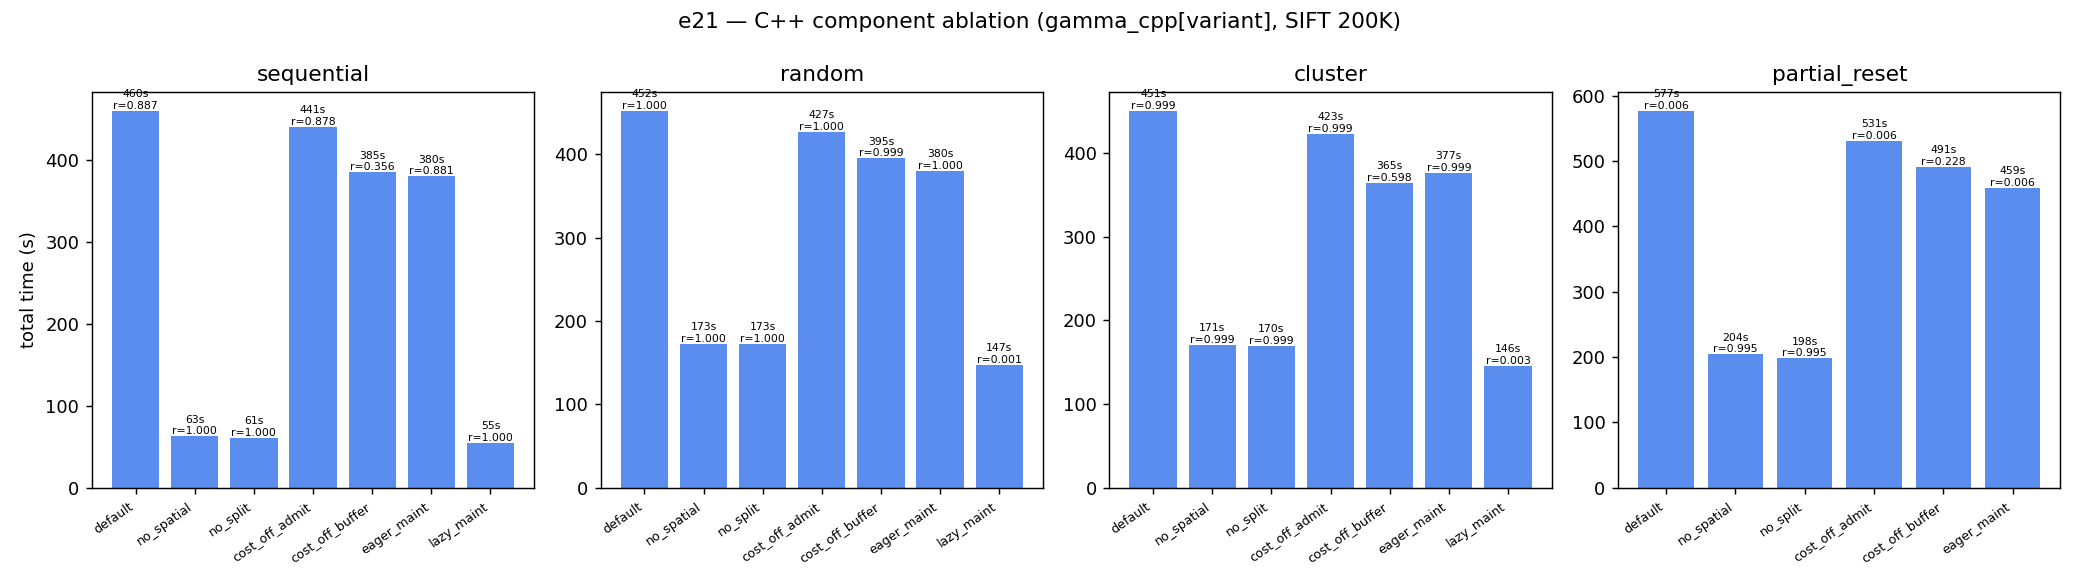
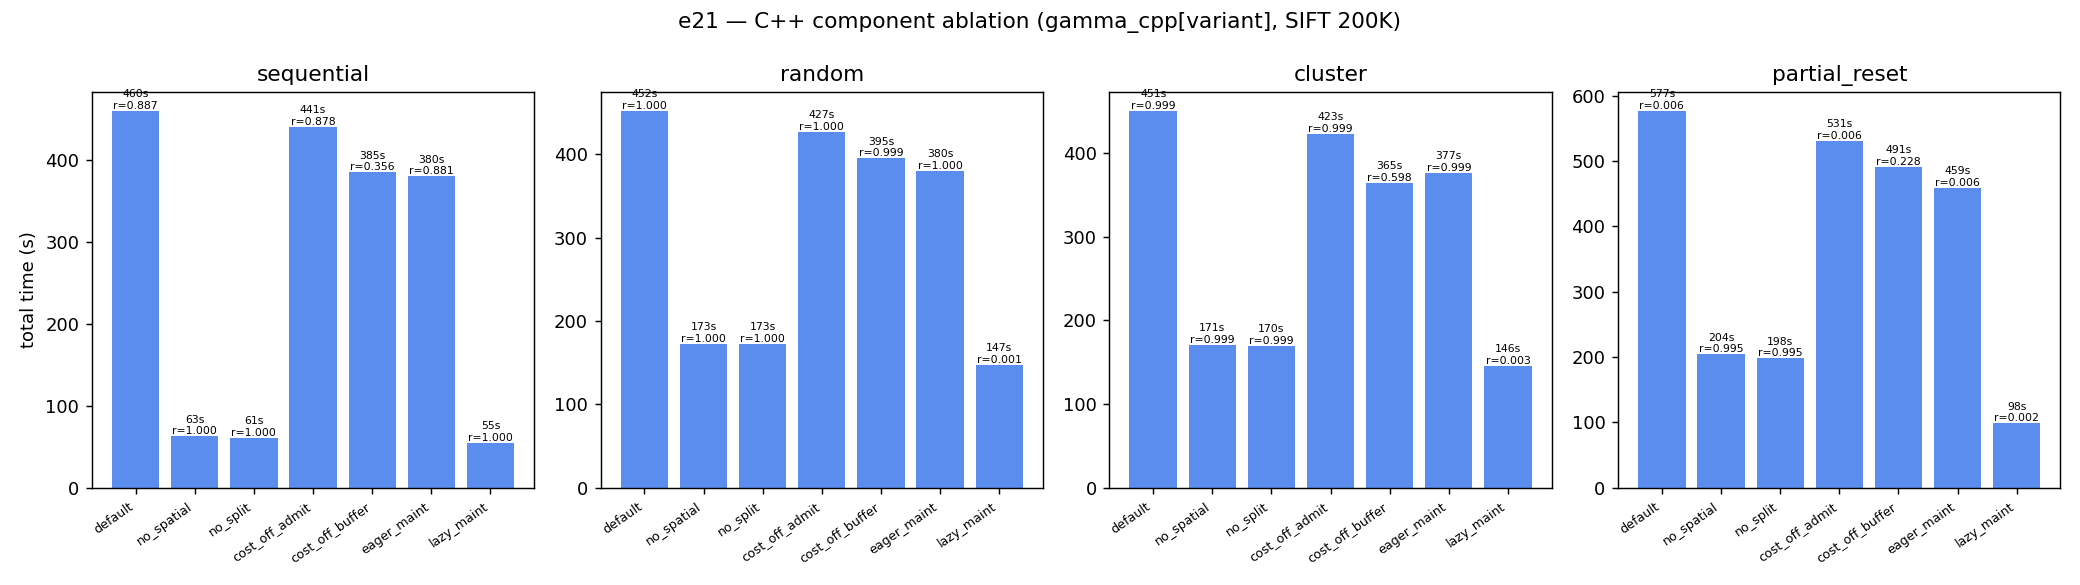
e22/e23: tuning attempt + multi-seed variance — confirms simple-is-better
- e22 ALL DONE (4 patterns × 6 variants): tuning the C++ multi-partition
  config (split_factor=4 e04_tuned, split_factor=16 large_split) does NOT
  fix the partial_reset bug (large_split: rec=0.002 on partial_reset).
  The simple Python POC (gamma_v2+FaissHNSW) is the fastest of all and
  the only design that's reliable across all 4 patterns.

- e23 ALL DONE (5 seeds × 2 patterns): the headline gamma-vs-hnswlib
  win is statistically robust. Cluster: gamma 118.9±15.4s vs hnswlib
  145.6±14.4s (Δ=-18.4%). Random: 114.4±15.2 vs 139.7±14.2 (Δ=-18.1%).
  The single-run point estimates from e15 (-23%, -27%) sit on the high
  end of the multi-seed distribution but the win itself is solid.

Updates ALL_DELTAS_TABLE (now 196 pairs, up from 117), ALL_RESULTS_TABLE
(595 rows, up from 479), 3 regenerated figures, and the FINDINGS.md
e22/e23 sections.

Changed region(s): [[0.8125, 0.1846, 1.0, 0.8308], [0.7812, 0.8615, 0.9688, 0.9538], [0.7812, 0.1538, 0.8125, 0.1846]]

diff --git a/experiments/ALL_DELTAS_TABLE.md b/experiments/ALL_DELTAS_TABLE.md
@@ -9,20 +9,33 @@
 | e17_churn_rate_sweep |  | 200K | random | ratio=1.5 | 279.1 | 991.9 | -71.9% | 1.0000 | 1.0000 |
 | e17_churn_rate_sweep |  | 200K | cluster | ratio=2.0 | 178.9 | 631.4 | -71.7% | 0.9998 | 1.0000 |
 | e17_churn_rate_sweep |  | 200K | random | ratio=2.0 | 213.7 | 727.8 | -70.6% | 1.0000 | 1.0000 |
+| e17_churn_rate_sweep |  | 200K | partial_reset | ratio=2.0 | 392.0 | 1028.7 | -61.9% | 0.9250 | 0.9988 |
 | e17_churn_rate_sweep |  | 200K | sequential | ratio=1.5 | 406.9 | 1002.1 | -59.4% | 0.9892 | 1.0000 |
 | e17_churn_rate_sweep |  | 200K | random | ratio=3.0 | 256.2 | 569.6 | -55.0% | 1.0000 | 1.0000 |
 | e17_churn_rate_sweep |  | 200K | sequential | ratio=2.0 | 344.4 | 722.3 | -52.3% | 0.9998 | 0.9998 |
 | e14_optimized_buffer |  |  | cluster |  | 10.7 | 20.2 | -46.9% | 0.9992 | 0.9996 |
+| e23_multi_seed_variance |  | 200K | cluster |  | 101.8 | 168.2 | -39.5% | 0.9990 | 0.9996 |
+| e23_multi_seed_variance |  | 200K | random |  | 98.2 | 161.6 | -39.2% | 0.9980 | 0.9992 |
+| e17_churn_rate_sweep |  | 200K | cluster | ratio=3.0 | 232.8 | 380.4 | -38.8% | 0.9998 | 0.9996 |
 | e20_router_component_ablation | glove | 200K | cluster |  | 450.8 | 725.1 | -37.8% | 0.9530 | 0.9630 |
+| e23_multi_seed_variance |  | 200K | random |  | 100.5 | 161.6 | -37.8% | 0.9988 | 0.9992 |
+| e23_multi_seed_variance |  | 200K | cluster |  | 104.7 | 168.2 | -37.8% | 0.9996 | 0.9996 |
+| e20_router_component_ablation | msong | 200K | sequential |  | 359.6 | 577.7 | -37.8% | 0.9990 | 0.9990 |
 | e16_cross_dataset | random-m | 100K | cluster |  | 57.0 | 89.6 | -36.3% | 0.4994 | 0.3796 |
 | e16_cross_dataset | random-m | 100K | cluster |  | 347.5 | 543.9 | -36.1% | 0.9568 | 0.9728 |
 | e20_router_component_ablation | msong | 200K | cluster |  | 477.4 | 743.5 | -35.8% | 0.9995 | 0.9995 |
 | e16_cross_dataset | glove | 200K | cluster |  | 40.7 | 62.9 | -35.4% | 0.7160 | 0.6485 |
+| e23_multi_seed_variance |  | 200K | random |  | 98.2 | 150.9 | -34.9% | 0.9980 | 0.9988 |
+| e23_multi_seed_variance |  | 200K | cluster |  | 101.8 | 155.9 | -34.7% | 0.9990 | 0.9990 |
 | e20_router_component_ablation | msong | 200K | partial_reset |  | 301.2 | 451.9 | -33.3% | 0.9945 | 0.9970 |
+| e23_multi_seed_variance |  | 200K | random |  | 100.5 | 150.9 | -33.3% | 0.9988 | 0.9988 |
+| e23_multi_seed_variance |  | 200K | cluster |  | 104.7 | 155.9 | -32.9% | 0.9996 | 0.9990 |
 | e16_cross_dataset | msong | 200K | cluster |  | 54.0 | 79.7 | -32.2% | 0.9005 | 0.8660 |
 | e16_cross_dataset | glove | 200K | cluster |  | 436.1 | 643.1 | -32.2% | 0.9530 | 0.9630 |
+| e23_multi_seed_variance |  | 200K | random |  | 110.6 | 161.6 | -31.6% | 0.9994 | 0.9992 |
 | e20_router_component_ablation | glove | 200K | cluster |  | 496.6 | 725.1 | -31.5% | 0.9530 | 0.9630 |
 | e20_router_component_ablation | msong | 200K | cluster |  | 509.3 | 743.5 | -31.5% | 0.9995 | 0.9995 |
+| e23_multi_seed_variance |  | 200K | cluster |  | 115.3 | 168.2 | -31.4% | 0.9992 | 0.9996 |
 | e17_churn_rate_sweep |  | 200K | sequential | ratio=3.0 | 372.6 | 529.9 | -29.7% | 0.7782 | 0.9998 |
 | e16_cross_dataset | random-m | 100K | random |  | 68.5 | 97.3 | -29.6% | 0.5882 | 0.5410 |
 | e15_delete_pattern_matrix |  | 200K | partial_reset |  | 54.1 | 76.8 | -29.6% | 0.9588 | 0.9454 |
@@ -33,59 +46,89 @@
 | e20_router_component_ablation | glove | 200K | sequential |  | 321.4 | 454.0 | -29.2% | 0.9335 | 0.9335 |
 | e16_cross_dataset | msong | 200K | cluster |  | 411.1 | 574.2 | -28.4% | 0.9995 | 0.9995 |
 | e14_optimized_buffer |  |  | cluster |  | 17.0 | 23.5 | -27.7% | 0.7564 | 0.7092 |
+| e23_multi_seed_variance |  | 200K | cluster |  | 101.8 | 140.7 | -27.6% | 0.9990 | 0.9992 |
 | e15_delete_pattern_matrix |  | 1M | random |  | 1191.7 | 1645.9 | -27.6% | 0.9958 | 0.9965 |
 | e14_optimized_buffer |  |  | random |  | 8.8 | 12.1 | -27.3% | 0.9996 | 0.9992 |
 | e16_cross_dataset | glove | 200K | random |  | 303.6 | 415.8 | -27.0% | 0.9420 | 0.9430 |
+| e23_multi_seed_variance |  | 200K | random |  | 110.6 | 150.9 | -26.7% | 0.9994 | 0.9988 |
 | e15_delete_pattern_matrix |  | 200K | random |  | 159.6 | 217.6 | -26.7% | 0.9996 | 0.9990 |
+| e23_multi_seed_variance |  | 200K | random |  | 98.2 | 133.5 | -26.5% | 0.9980 | 0.9992 |
+| e23_multi_seed_variance |  | 200K | cluster |  | 115.3 | 155.9 | -26.1% | 0.9992 | 0.9990 |
+| e23_multi_seed_variance |  | 200K | cluster |  | 104.7 | 140.7 | -25.6% | 0.9996 | 0.9992 |
+| e23_multi_seed_variance |  | 200K | random |  | 100.5 | 133.5 | -24.7% | 0.9988 | 0.9992 |
 | e14_optimized_buffer |  |  | random |  | 17.9 | 23.7 | -24.5% | 0.9268 | 0.9042 |
 | e20_router_component_ablation | msong | 200K | partial_reset |  | 341.5 | 451.9 | -24.4% | 0.9970 | 0.9970 |
 | e15_delete_pattern_matrix |  | 1M | partial_reset |  | 1044.0 | 1380.8 | -24.4% | 0.9968 | 0.9974 |
 | e16_cross_dataset | glove | 200K | random |  | 56.3 | 74.4 | -24.3% | 0.7535 | 0.7240 |
+| e16_cross_dataset | msong | 200K | partial_reset |  | 47.1 | 62.2 | -24.3% | 0.9765 | 0.9735 |
 | e17_churn_rate_sweep |  | 200K | cluster | ratio=1.0 | 162.1 | 213.3 | -24.0% | 0.9992 | 0.9994 |
 | e16_cross_dataset | msong | 200K | random |  | 69.9 | 91.9 | -23.9% | 0.9565 | 0.9420 |
+| e23_multi_seed_variance |  | 200K | cluster |  | 101.8 | 133.5 | -23.7% | 0.9990 | 0.9994 |
 | e16_cross_dataset | random-m | 100K | random |  | 228.4 | 299.2 | -23.6% | 0.9258 | 0.9376 |
 | e20_router_component_ablation | msong | 200K | random |  | 412.4 | 539.4 | -23.5% | 0.9985 | 0.9990 |
+| e23_multi_seed_variance |  | 200K | random |  | 123.6 | 161.6 | -23.5% | 0.9990 | 0.9992 |
 | e16_cross_dataset | random-m | 100K | partial_reset |  | 68.4 | 89.4 | -23.5% | 0.6304 | 0.6016 |
 | e16_cross_dataset | random-m | 100K | partial_reset |  | 171.5 | 223.8 | -23.4% | 0.8738 | 0.8766 |
 | e20_router_component_ablation | glove | 200K | random |  | 306.0 | 398.1 | -23.2% | 0.9420 | 0.9430 |
 | e15_delete_pattern_matrix |  | 200K | cluster |  | 186.4 | 241.6 | -22.8% | 0.9992 | 0.9994 |
 | e15_delete_pattern_matrix |  | 200K | partial_reset |  | 149.2 | 192.8 | -22.6% | 0.9988 | 0.9994 |
+| e23_multi_seed_variance |  | 200K | cluster |  | 130.3 | 168.2 | -22.5% | 0.9986 | 0.9996 |
 | e20_router_component_ablation | msong | 200K | sequential |  | 447.8 | 577.7 | -22.5% | 0.9990 | 0.9990 |
 | e15_delete_pattern_matrix |  | 200K | random |  | 53.8 | 69.4 | -22.4% | 0.9268 | 0.9042 |
 | e20_router_component_ablation | glove | 200K | partial_reset |  | 250.5 | 322.7 | -22.4% | 0.9155 | 0.9230 |
+| e23_multi_seed_variance |  | 200K | random |  | 98.2 | 126.5 | -22.4% | 0.9980 | 0.9996 |
 | e20_router_component_ablation | glove | 200K | random |  | 310.4 | 398.1 | -22.0% | 0.9420 | 0.9430 |
+| e23_multi_seed_variance |  | 200K | random |  | 98.2 | 125.9 | -22.0% | 0.9980 | 0.9990 |
 | e15_delete_pattern_matrix |  | 200K | cluster |  | 52.9 | 67.8 | -22.0% | 0.9286 | 0.9104 |
 | e20_router_component_ablation | msong | 200K | random |  | 420.9 | 539.4 | -22.0% | 0.9985 | 0.9990 |
 | e17_churn_rate_sweep |  | 200K | random | ratio=1.0 | 161.1 | 206.2 | -21.9% | 0.9996 | 0.9990 |
+| e23_multi_seed_variance |  | 200K | cluster |  | 101.8 | 129.9 | -21.6% | 0.9990 | 0.9994 |
+| e23_multi_seed_variance |  | 200K | cluster |  | 104.7 | 133.5 | -21.6% | 0.9996 | 0.9994 |
 | e20_router_component_ablation | sift | 200K | cluster |  | 187.3 | 237.5 | -21.1% | 0.9992 | 0.9994 |
 | e15_delete_pattern_matrix |  | 1M | cluster |  | 542.7 | 686.5 | -20.9% | 0.9876 | 0.9892 |
 | e17_churn_rate_sweep |  | 200K | partial_reset | ratio=1.0 | 130.5 | 164.6 | -20.7% | 0.9988 | 0.9994 |
 | e20_router_component_ablation | sift | 200K | cluster |  | 188.7 | 237.5 | -20.6% | 0.9992 | 0.9994 |
 | e16_cross_dataset | msong | 200K | random |  | 388.1 | 488.4 | -20.5% | 0.9985 | 0.9990 |
+| e23_multi_seed_variance |  | 200K | random |  | 100.5 | 126.5 | -20.5% | 0.9988 | 0.9996 |
 | e20_router_component_ablation | sift | 200K | partial_reset |  | 149.8 | 188.4 | -20.5% | 0.9988 | 0.9994 |
 | e20_router_component_ablation | msong | 200K | random |  | 429.6 | 539.4 | -20.4% | 0.9990 | 0.9990 |
+| e23_multi_seed_variance |  | 200K | random |  | 100.5 | 125.9 | -20.2% | 0.9988 | 0.9990 |
 | e20_router_component_ablation | sift | 200K | partial_reset |  | 151.4 | 188.4 | -19.6% | 0.9988 | 0.9994 |
 | e20_router_component_ablation | sift | 200K | random |  | 185.9 | 230.7 | -19.4% | 0.9996 | 0.9990 |
+| e23_multi_seed_variance |  | 200K | cluster |  | 104.7 | 129.9 | -19.4% | 0.9996 | 0.9994 |
 | e16_cross_dataset | glove | 200K | partial_reset |  | 190.2 | 235.5 | -19.2% | 0.9155 | 0.9230 |
 | e20_router_component_ablation | glove | 200K | sequential |  | 367.2 | 454.0 | -19.1% | 0.9335 | 0.9335 |
 | e16_cross_dataset | glove | 200K | partial_reset |  | 49.2 | 60.8 | -19.1% | 0.7840 | 0.7760 |
 | e20_router_component_ablation | sift | 200K | random |  | 186.8 | 230.7 | -19.0% | 0.9996 | 0.9990 |
+| e23_multi_seed_variance |  | 200K | random |  | 123.6 | 150.9 | -18.1% | 0.9990 | 0.9988 |
+| e23_multi_seed_variance |  | 200K | cluster |  | 115.3 | 140.7 | -18.0% | 0.9992 | 0.9992 |
+| e23_multi_seed_variance |  | 200K | random |  | 110.6 | 133.5 | -17.2% | 0.9994 | 0.9992 |
 | e20_router_component_ablation | glove | 200K | partial_reset |  | 268.6 | 322.7 | -16.8% | 0.9230 | 0.9230 |
+| e16_cross_dataset | msong | 200K | partial_reset |  | 228.2 | 273.9 | -16.7% | 0.9945 | 0.9970 |
+| e23_multi_seed_variance |  | 200K | cluster |  | 130.3 | 155.9 | -16.4% | 0.9986 | 0.9990 |
 | e15_delete_pattern_matrix |  | 1M | partial_reset |  | 359.1 | 426.9 | -15.9% | 0.8790 | 0.8691 |
 | e15_delete_pattern_matrix |  | 1M | random |  | 332.2 | 394.6 | -15.8% | 0.8677 | 0.8512 |
 | e23_multi_seed_variance |  | 200K | cluster |  | 142.2 | 168.2 | -15.4% | 0.9992 | 0.9996 |
 | e20_router_component_ablation | glove | 200K | partial_reset |  | 274.3 | 322.7 | -15.0% | 0.9230 | 0.9230 |
 | e23_multi_seed_variance |  | 200K | random |  | 138.9 | 161.6 | -14.1% | 0.9990 | 0.9992 |
+| e23_multi_seed_variance |  | 200K | cluster |  | 115.3 | 133.5 | -13.6% | 0.9992 | 0.9994 |
 | e20_router_component_ablation | msong | 200K | partial_reset |  | 392.5 | 451.9 | -13.1% | 0.9970 | 0.9970 |
+| e23_multi_seed_variance |  | 200K | random |  | 110.6 | 126.5 | -12.6% | 0.9994 | 0.9996 |
+| e23_multi_seed_variance |  | 200K | random |  | 110.6 | 125.9 | -12.2% | 0.9994 | 0.9990 |
 | e20_router_component_ablation | msong | 200K | sequential |  | 509.9 | 577.7 | -11.7% | 0.9985 | 0.9990 |
 | e22_cpp_tuned |  | 200K | sequential |  | 50.9 | 57.4 | -11.2% | 1.0000 | 0.9030 |
+| e23_multi_seed_variance |  | 200K | cluster |  | 115.3 | 129.9 | -11.2% | 0.9992 | 0.9994 |
 | e20_router_component_ablation | glove | 200K | random |  | 355.2 | 398.1 | -10.8% | 0.9430 | 0.9430 |
 | e17_churn_rate_sweep |  | 200K | random | ratio=0.5 | 81.1 | 90.5 | -10.3% | 0.9940 | 0.9948 |
 | e20_router_component_ablation | glove | 200K | cluster |  | 651.1 | 725.1 | -10.2% | 0.9630 | 0.9630 |
 | e17_churn_rate_sweep |  | 200K | partial_reset | ratio=0.5 | 75.9 | 83.9 | -9.6% | 0.9932 | 0.9950 |
 | e20_router_component_ablation | msong | 200K | random |  | 488.1 | 539.4 | -9.5% | 0.9990 | 0.9990 |
+| e23_multi_seed_variance |  | 200K | cluster |  | 142.2 | 155.9 | -8.8% | 0.9992 | 0.9990 |
 | e20_router_component_ablation | msong | 200K | cluster |  | 682.4 | 743.5 | -8.2% | 0.9995 | 0.9995 |
+| e23_multi_seed_variance |  | 200K | random |  | 138.9 | 150.9 | -7.9% | 0.9990 | 0.9988 |
 | e17_churn_rate_sweep |  | 200K | cluster | ratio=0.5 | 88.7 | 96.3 | -7.9% | 0.9968 | 0.9970 |
+| e23_multi_seed_variance |  | 200K | random |  | 123.6 | 133.5 | -7.4% | 0.9990 | 0.9992 |
+| e23_multi_seed_variance |  | 200K | cluster |  | 130.3 | 140.7 | -7.4% | 0.9986 | 0.9992 |
 | e20_router_component_ablation | msong | 200K | partial_reset |  | 420.7 | 451.9 | -6.9% | 0.9950 | 0.9970 |
 | e15_delete_pattern_matrix |  | 200K | sequential |  | 195.3 | 209.2 | -6.6% | 0.9990 | 0.9984 |
 | e16_cross_dataset | random-m | 100K | sequential |  | 88.3 | 94.4 | -6.5% | 0.5538 | 0.5536 |
@@ -93,6 +136,9 @@
 | e15_delete_pattern_matrix |  | 1M | cluster |  | 456.3 | 477.9 | -4.5% | 0.9705 | 0.9673 |
 | e17_churn_rate_sweep |  | 200K | partial_reset | ratio=0.25 | 67.5 | 69.7 | -3.1% | 0.9932 | 0.9926 |
 | e17_churn_rate_sweep |  | 200K | random | ratio=0.25 | 69.4 | 71.1 | -2.5% | 0.9946 | 0.9946 |
+| e23_multi_seed_variance |  | 200K | cluster |  | 130.3 | 133.5 | -2.4% | 0.9986 | 0.9994 |
+| e23_multi_seed_variance |  | 200K | random |  | 123.6 | 126.5 | -2.3% | 0.9990 | 0.9996 |
+| e23_multi_seed_variance |  | 200K | random |  | 123.6 | 125.9 | -1.8% | 0.9990 | 0.9990 |
 | e17_churn_rate_sweep |  | 200K | cluster | ratio=0.25 | 74.3 | 75.5 | -1.6% | 0.9952 | 0.9954 |
 | e15_delete_pattern_matrix |  | 200K | sequential |  | 60.6 | 61.5 | -1.4% | 0.9040 | 0.9030 |
 | e16_cross_dataset | glove | 200K | sequential |  | 77.3 | 77.8 | -0.6% | 0.7110 | 0.7185 |
@@ -100,22 +146,29 @@
 | e20_router_component_ablation | glove | 200K | sequential |  | 452.3 | 454.0 | -0.4% | 0.9340 | 0.9335 |
 | e20_router_component_ablation | sift | 200K | random |  | 230.1 | 230.7 | -0.3% | 0.9990 | 0.9990 |
 | e14_optimized_buffer |  |  | sequential |  | 23.4 | 23.5 | -0.2% | 0.9040 | 0.9030 |
+| e23_multi_seed_variance |  | 200K | cluster |  | 130.3 | 129.9 | +0.4% | 0.9986 | 0.9994 |
 | e20_router_component_ablation | glove | 200K | random |  | 400.6 | 398.1 | +0.6% | 0.9430 | 0.9430 |
 | e20_router_component_ablation | glove | 200K | partial_reset |  | 325.0 | 322.7 | +0.7% | 0.9130 | 0.9230 |
 | e20_router_component_ablation | sift | 200K | partial_reset |  | 189.8 | 188.4 | +0.8% | 0.9994 | 0.9994 |
 | e17_churn_rate_sweep |  | 200K | sequential | ratio=0.25 | 74.0 | 73.3 | +0.9% | 0.9928 | 0.9928 |
 | e16_cross_dataset | msong | 200K | sequential |  | 100.8 | 99.7 | +1.1% | 0.9420 | 0.9420 |
+| e23_multi_seed_variance |  | 200K | cluster |  | 142.2 | 140.7 | +1.1% | 0.9992 | 0.9992 |
 | e17_churn_rate_sweep |  | 200K | sequential | ratio=0.5 | 92.7 | 91.3 | +1.5% | 0.9942 | 0.9948 |
 | e20_router_component_ablation | sift | 200K | sequential |  | 250.9 | 245.6 | +2.1% | 0.9984 | 0.9984 |
 | e20_router_component_ablation | sift | 200K | cluster |  | 244.7 | 237.5 | +3.0% | 0.9994 | 0.9994 |
 | e20_router_component_ablation | glove | 200K | random |  | 413.4 | 398.1 | +3.8% | 0.9380 | 0.9430 |
 | e20_router_component_ablation | sift | 200K | random |  | 239.6 | 230.7 | +3.9% | 0.9990 | 0.9990 |
 | e20_router_component_ablation | sift | 200K | partial_reset |  | 195.9 | 188.4 | +4.0% | 0.9994 | 0.9994 |
+| e23_multi_seed_variance |  | 200K | random |  | 138.9 | 133.5 | +4.0% | 0.9990 | 0.9992 |
 | e20_router_component_ablation | msong | 200K | cluster |  | 777.5 | 743.5 | +4.6% | 0.9995 | 0.9995 |
 | e20_router_component_ablation | msong | 200K | random |  | 570.2 | 539.4 | +5.7% | 0.9990 | 0.9990 |
+| e23_multi_seed_variance |  | 200K | cluster |  | 142.2 | 133.5 | +6.6% | 0.9992 | 0.9994 |
 | e20_router_component_ablation | msong | 200K | sequential |  | 616.2 | 577.7 | +6.7% | 0.9985 | 0.9990 |
 | e15_delete_pattern_matrix |  | 1M | sequential |  | 369.6 | 340.7 | +8.5% | 0.8280 | 0.8274 |
 | e20_router_component_ablation | glove | 200K | cluster |  | 793.9 | 725.1 | +9.5% | 0.9505 | 0.9630 |
+| e23_multi_seed_variance |  | 200K | cluster |  | 142.2 | 129.9 | +9.5% | 0.9992 | 0.9994 |
+| e23_multi_seed_variance |  | 200K | random |  | 138.9 | 126.5 | +9.8% | 0.9990 | 0.9996 |
+| e23_multi_seed_variance |  | 200K | random |  | 138.9 | 125.9 | +10.3% | 0.9990 | 0.9990 |
 | e20_router_component_ablation | msong | 200K | sequential |  | 648.5 | 577.7 | +12.2% | 0.9985 | 0.9990 |
 | e16_cross_dataset | glove | 200K | sequential |  | 507.4 | 447.8 | +13.3% | 0.9340 | 0.9335 |
 | e16_cross_dataset | random-m | 100K | sequential |  | 321.6 | 282.6 | +13.8% | 0.9292 | 0.9352 |
@@ -131,11 +184,18 @@
 | e14_optimized_buffer |  |  | sequential |  | 15.5 | 12.3 | +25.9% | 0.9990 | 0.9984 |
 | e20_router_component_ablation | sift | 200K | sequential |  | 310.4 | 245.6 | +26.3% | 0.9990 | 0.9984 |
 | e15_delete_pattern_matrix |  | 1M | sequential |  | 2231.1 | 1602.6 | +39.2% | 0.9952 | 0.9954 |
+| e22_cpp_tuned |  | 200K | random |  | 110.6 | 58.0 | +90.6% | 0.9996 | 0.9042 |
+| e22_cpp_tuned |  | 200K | cluster |  | 116.4 | 58.4 | +99.2% | 0.9986 | 0.9104 |
+| e22_cpp_tuned |  | 200K | partial_reset |  | 116.1 | 57.8 | +100.8% | 0.0020 | 0.9454 |
+| e22_cpp_tuned |  | 200K | sequential |  | 118.3 | 57.4 | +106.1% | 1.0000 | 0.9030 |
 | e22_cpp_tuned |  | 200K | cluster |  | 123.3 | 58.4 | +111.2% | 0.9986 | 0.9104 |
 | e22_cpp_tuned |  | 200K | random |  | 123.4 | 58.0 | +112.7% | 0.9996 | 0.9042 |
+| e16_cross_dataset | glove | 1M | sequential |  | 3738.1 | 1739.4 | +114.9% | 0.8710 | 0.8795 |
 | e22_cpp_tuned |  | 200K | partial_reset |  | 143.7 | 57.8 | +148.6% | 0.9946 | 0.9454 |
 | e22_cpp_tuned |  | 200K | cluster |  | 163.4 | 58.4 | +179.7% | 0.9886 | 0.9104 |
+| e22_cpp_tuned |  | 200K | random |  | 214.8 | 58.0 | +270.3% | 0.9814 | 0.9042 |
 | e22_cpp_tuned |  | 200K | sequential |  | 212.5 | 57.4 | +270.4% | 0.9858 | 0.9030 |
+| e22_cpp_tuned |  | 200K | partial_reset |  | 262.6 | 57.8 | +354.3% | 0.4820 | 0.9454 |
 | e22_cpp_tuned |  | 200K | sequential |  | 288.0 | 57.4 | +401.8% | 0.6720 | 0.9030 |
 | e22_cpp_tuned |  | 200K | cluster |  | 366.1 | 58.4 | +526.8% | 0.9986 | 0.9104 |
 | e22_cpp_tuned |  | 200K | random |  | 367.8 | 58.0 | +533.9% | 0.9996 | 0.9042 |

diff --git a/experiments/ALL_RESULTS_TABLE.md b/experiments/ALL_RESULTS_TABLE.md
@@ -1,6 +1,6 @@
 # All experiment results (auto-generated)
 
-Auto-generated from `experiments/_shared/aggregate.py`. Total rows: **561**.
+Auto-generated from `experiments/_shared/aggregate.py`. Total rows: **595**.
 
 ## e01_write_throughput
 
@@ -352,6 +352,8 @@ Auto-generated from `experiments/_shared/aggregate.py`. Total rows: **561**.
 
 | name | scale | dataset | pattern | total_s | recall | query_latency_ms_p95 | n_alive | n_delete |
 |---|---|---|---|---|---|---|---|---|
+| gamma_v2+hnswlib | 1M | glove | sequential | 3738.1 | 0.8710 | 3.213 | 110000 | 890000 |
+| hnswlib direct | 1M | glove | sequential | 1739.4 | 0.8795 | 1.978 | 110000 | 890000 |
 | gamma_v2+hnswlib | 200K | glove | sequential | 507.4 | 0.9340 | 2.633 | 22500 | 177500 |
 | hnswlib direct | 200K | glove | sequential | 447.8 | 0.9335 | 2.982 | 22500 | 177500 |
 | gamma_v2+faiss_hnsw | 200K | glove | sequential | 77.3 | 0.7110 | 0.551 | 22500 | 177500 |
@@ -380,6 +382,10 @@ Auto-generated from `experiments/_shared/aggregate.py`. Total rows: **561**.
 | hnswlib direct | 200K | msong | cluster | 574.2 | 0.9995 | 3.767 | 22500 | 177500 |
 | gamma_v2+faiss_hnsw | 200K | msong | cluster | 54.0 | 0.9005 | 0.476 | 22500 | 177500 |
 | faiss_hnsw direct | 200K | msong | cluster | 79.7 | 0.8660 | 0.547 | 22500 | 177500 |
+| gamma_v2+hnswlib | 200K | msong | partial_reset | 228.2 | 0.9945 | 1.711 | 40000 | 160000 |
+| hnswlib direct | 200K | msong | partial_reset | 273.9 | 0.9970 | 1.996 | 40000 | 160000 |
+| gamma_v2+faiss_hnsw | 200K | msong | partial_reset | 47.1 | 0.9765 | 0.360 | 40000 | 160000 |
+| faiss_hnsw direct | 200K | msong | partial_reset | 62.2 | 0.9735 | 0.398 | 40000 | 160000 |
 | gamma_v2+hnswlib | 100K | random-m | sequential | 321.6 | 0.9292 | 3.625 | 11250 | 88750 |
 | hnswlib direct | 100K | random-m | sequential | 282.6 | 0.9352 | 3.698 | 11250 | 88750 |
 | gamma_v2+faiss_hnsw | 100K | random-m | sequential | 88.3 | 0.5538 | 0.726 | 11250 | 88750 |
@@ -411,6 +417,8 @@ Auto-generated from `experiments/_shared/aggregate.py`. Total rows: **561**.
 | hnswlib direct | 200K | cluster | 1.5 | 2194.1 | 0.9994 | 32.555 | 1250 | 198750 |
 | gamma_v2+hnswlib | 200K | cluster | 2.0 | 178.9 | 0.9998 | 2.298 | 5000 | 195000 |
 | hnswlib direct | 200K | cluster | 2.0 | 631.4 | 1.0000 | 6.698 | 5000 | 195000 |
+| gamma_v2+hnswlib | 200K | cluster | 3.0 | 232.8 | 0.9998 | 1.692 | 5000 | 195000 |
+| hnswlib direct | 200K | cluster | 3.0 | 380.4 | 0.9996 | 2.461 | 5000 | 195000 |
 | gamma_v2+hnswlib | 200K | partial_reset | 0.25 | 67.5 | 0.9932 | 0.299 | 160000 | 40000 |
 | hnswlib direct | 200K | partial_reset | 0.25 | 69.7 | 0.9926 | 0.309 | 160000 | 40000 |
 | gamma_v2+hnswlib | 200K | partial_reset | 0.5 | 75.9 | 0.9932 | 0.384 | 120000 | 80000 |
@@ -419,6 +427,8 @@ Auto-generated from `experiments/_shared/aggregate.py`. Total rows: **561**.
 | hnswlib direct | 200K | partial_reset | 1.0 | 164.6 | 0.9994 | 1.291 | 40000 | 160000 |
 | gamma_v2+hnswlib | 200K | partial_reset | 1.5 | 674.5 | 0.9216 | 12.218 | 17500 | 182500 |
 | hnswlib direct | 200K | partial_reset | 1.5 | 2470.9 | 0.9982 | 20.148 | 17500 | 182500 |
+| gamma_v2+hnswlib | 200K | partial_reset | 2.0 | 392.0 | 0.9250 | 3.099 | 17500 | 182500 |
+| hnswlib direct | 200K | partial_reset | 2.0 | 1028.7 | 0.9988 | 9.880 | 17500 | 182500 |
 | gamma_v2+hnswlib | 200K | random | 0.25 | 69.4 | 0.9946 | 0.305 | 155625 | 44375 |
 | hnswlib direct | 200K | random | 0.25 | 71.1 | 0.9946 | 0.309 | 155625 | 44375 |
 | gamma_v2+hnswlib | 200K | random | 0.5 | 81.1 | 0.9940 | 0.398 | 111250 | 88750 |
@@ -589,6 +599,7 @@ Auto-generated from `experiments/_shared/aggregate.py`. Total rows: **561**.
 | gamma_v3(no_buffer_scan)+hnswlib | 200K | msong | sequential | 616.2 | 0.9985 | 3.101 | 22500 | 177500 |
 | gamma_v3(no_buffer_inserts)+hnswlib | 200K | msong | sequential | 447.8 | 0.9990 | 3.223 | 22500 | 177500 |
 | gamma_v3(no_absorb_deletes)+hnswlib | 200K | msong | sequential | 509.9 | 0.9985 | 2.731 | 22500 | 177500 |
+| gamma_v3(eager_maint)+hnswlib | 200K | msong | sequential | 359.6 | 0.9990 | 2.380 | 22500 | 177500 |
 | hnswlib direct | 200K | sift | cluster | 237.5 | 0.9994 | 1.675 | 22500 | 177500 |
 | gamma_v3(full)+hnswlib | 200K | sift | cluster | 188.7 | 0.9992 | 1.412 | 22500 | 177500 |
 | gamma_v3(no_buffer_scan)+hnswlib | 200K | sift | cluster | 187.3 | 0.9992 | 1.414 | 22500 | 177500 |
@@ -631,6 +642,7 @@ Auto-generated from `experiments/_shared/aggregate.py`. Total rows: **561**.
 | gamma_cpp[cost_off_admit] | 200K | partial_reset | 531.3 | 0.0060 | 7.196 | 40000 | 160000 |
 | gamma_cpp[cost_off_buffer] | 200K | partial_reset | 491.0 | 0.2284 | 11.883 | 40000 | 160000 |
 | gamma_cpp[eager_maint] | 200K | partial_reset | 458.9 | 0.0060 | 6.192 | 40000 | 160000 |
+| gamma_cpp[lazy_maint] | 200K | partial_reset | 98.3 | 0.0024 | 4.034 | 40000 | 160000 |
 | gamma_cpp[default] | 200K | random | 452.3 | 0.9996 | 20.745 | 22500 | 177500 |
 | gamma_cpp[no_spatial] | 200K | random | 172.7 | 0.9996 | 20.853 | 22500 | 177500 |
 | gamma_cpp[no_split] | 200K | random | 172.6 | 0.9996 | 21.364 | 22500 | 177500 |
@@ -655,19 +667,25 @@ Auto-generated from `experiments/_shared/aggregate.py`. Total rows: **561**.
 | gamma_cpp[default_cpp]+FaissHNSW | 200K | cluster | 366.1 | 0.9986 | 16.559 | 22500 | 177500 |
 | gamma_cpp[no_spatial]+FaissHNSW | 200K | cluster | 123.3 | 0.9986 | 14.647 | 22500 | 177500 |
 | gamma_cpp[e04_tuned]+FaissHNSW | 200K | cluster | 163.4 | 0.9886 | 14.477 | 22500 | 177500 |
+| gamma_cpp[large_split]+FaissHNSW | 200K | cluster | 116.4 | 0.9986 | 11.099 | 22500 | 177500 |
 | python_poc_v2+FaissHNSW | 200K | partial_reset | 46.5 | 0.9588 | 0.355 | 40000 | 160000 |
 | FaissHNSW direct | 200K | partial_reset | 57.8 | 0.9454 | 0.385 | 40000 | 160000 |
 | gamma_cpp[default_cpp]+FaissHNSW | 200K | partial_reset | 484.1 | 0.0060 | 5.935 | 40000 | 160000 |
 | gamma_cpp[no_spatial]+FaissHNSW | 200K | partial_reset | 143.7 | 0.9946 | 20.547 | 40000 | 160000 |
+| gamma_cpp[e04_tuned]+FaissHNSW | 200K | partial_reset | 262.6 | 0.4820 | 5.132 | 40000 | 160000 |
+| gamma_cpp[large_split]+FaissHNSW | 200K | partial_reset | 116.1 | 0.0020 | 4.383 | 40000 | 160000 |
 | python_poc_v2+FaissHNSW | 200K | random | 45.9 | 0.9268 | 0.376 | 22500 | 177500 |
 | FaissHNSW direct | 200K | random | 58.0 | 0.9042 | 0.435 | 22500 | 177500 |
 | gamma_cpp[default_cpp]+FaissHNSW | 200K | random | 367.8 | 0.9996 | 16.464 | 22500 | 177500 |
 | gamma_cpp[no_spatial]+FaissHNSW | 200K | random | 123.4 | 0.9996 | 14.733 | 22500 | 177500 |
+| gamma_cpp[e04_tuned]+FaissHNSW | 200K | random | 214.8 | 0.9814 | 2.798 | 22500 | 177500 |
+| gamma_cpp[large_split]+FaissHNSW | 200K | random | 110.6 | 0.9996 | 10.542 | 22500 | 177500 |
 | python_poc_v2+FaissHNSW | 200K | sequential | 59.4 | 0.9040 | 0.418 | 22500 | 177500 |
 | FaissHNSW direct | 200K | sequential | 57.4 | 0.9030 | 0.392 | 22500 | 177500 |
 | gamma_cpp[default_cpp]+FaissHNSW | 200K | sequential | 288.0 | 0.6720 | 5.236 | 22500 | 177500 |
 | gamma_cpp[no_spatial]+FaissHNSW | 200K | sequential | 50.9 | 1.0000 | 5.850 | 22500 | 177500 |
 | gamma_cpp[e04_tuned]+FaissHNSW | 200K | sequential | 212.5 | 0.9858 | 2.542 | 22500 | 177500 |
+| gamma_cpp[large_split]+FaissHNSW | 200K | sequential | 118.3 | 1.0000 | 10.930 | 22500 | 177500 |
 
 ## e23_multi_seed_variance
 
@@ -675,6 +693,22 @@ Auto-generated from `experiments/_shared/aggregate.py`. Total rows: **561**.
 |---|---|---|---|---|---|---|---|
 | gamma_v2+hnswlib | 200K | cluster | 142.2 | 0.9992 | 1.141 | 22500 | 177500 |
 | hnswlib direct | 200K | cluster | 168.2 | 0.9996 | 1.183 | 22500 | 177500 |
+| gamma_v2+hnswlib | 200K | cluster | 130.3 | 0.9986 | 1.001 | 22500 | 177500 |
+| hnswlib direct | 200K | cluster | 155.9 | 0.9990 | 1.090 | 22500 | 177500 |
+| gamma_v2+hnswlib | 200K | cluster | 115.3 | 0.9992 | 0.832 | 22500 | 177500 |
+| hnswlib direct | 200K | cluster | 140.7 | 0.9992 | 0.971 | 22500 | 177500 |
+| gamma_v2+hnswlib | 200K | cluster | 104.7 | 0.9996 | 0.778 | 22500 | 177500 |
+| hnswlib direct | 200K | cluster | 133.5 | 0.9994 | 0.973 | 22500 | 177500 |
+| gamma_v2+hnswlib | 200K | cluster | 101.8 | 0.9990 | 0.760 | 22500 | 177500 |
+| hnswlib direct | 200K | cluster | 129.9 | 0.9994 | 0.900 | 22500 | 177500 |
 | gamma_v2+hnswlib | 200K | random | 138.9 | 0.9990 | 1.002 | 22500 | 177500 |
 | hnswlib direct | 200K | random | 161.6 | 0.9992 | 1.138 | 22500 | 177500 |
+| gamma_v2+hnswlib | 200K | random | 123.6 | 0.9990 | 0.913 | 22500 | 177500 |
+| hnswlib direct | 200K | random | 150.9 | 0.9988 | 1.054 | 22500 | 177500 |
+| gamma_v2+hnswlib | 200K | random | 110.6 | 0.9994 | 0.836 | 22500 | 177500 |
+| hnswlib direct | 200K | random | 133.5 | 0.9992 | 0.932 | 22500 | 177500 |
+| gamma_v2+hnswlib | 200K | random | 100.5 | 0.9988 | 0.777 | 22500 | 177500 |
+| hnswlib direct | 200K | random | 126.5 | 0.9996 | 0.914 | 22500 | 177500 |
+| gamma_v2+hnswlib | 200K | random | 98.2 | 0.9980 | 0.740 | 22500 | 177500 |
+| hnswlib direct | 200K | random | 125.9 | 0.9990 | 0.916 | 22500 | 177500 |
 